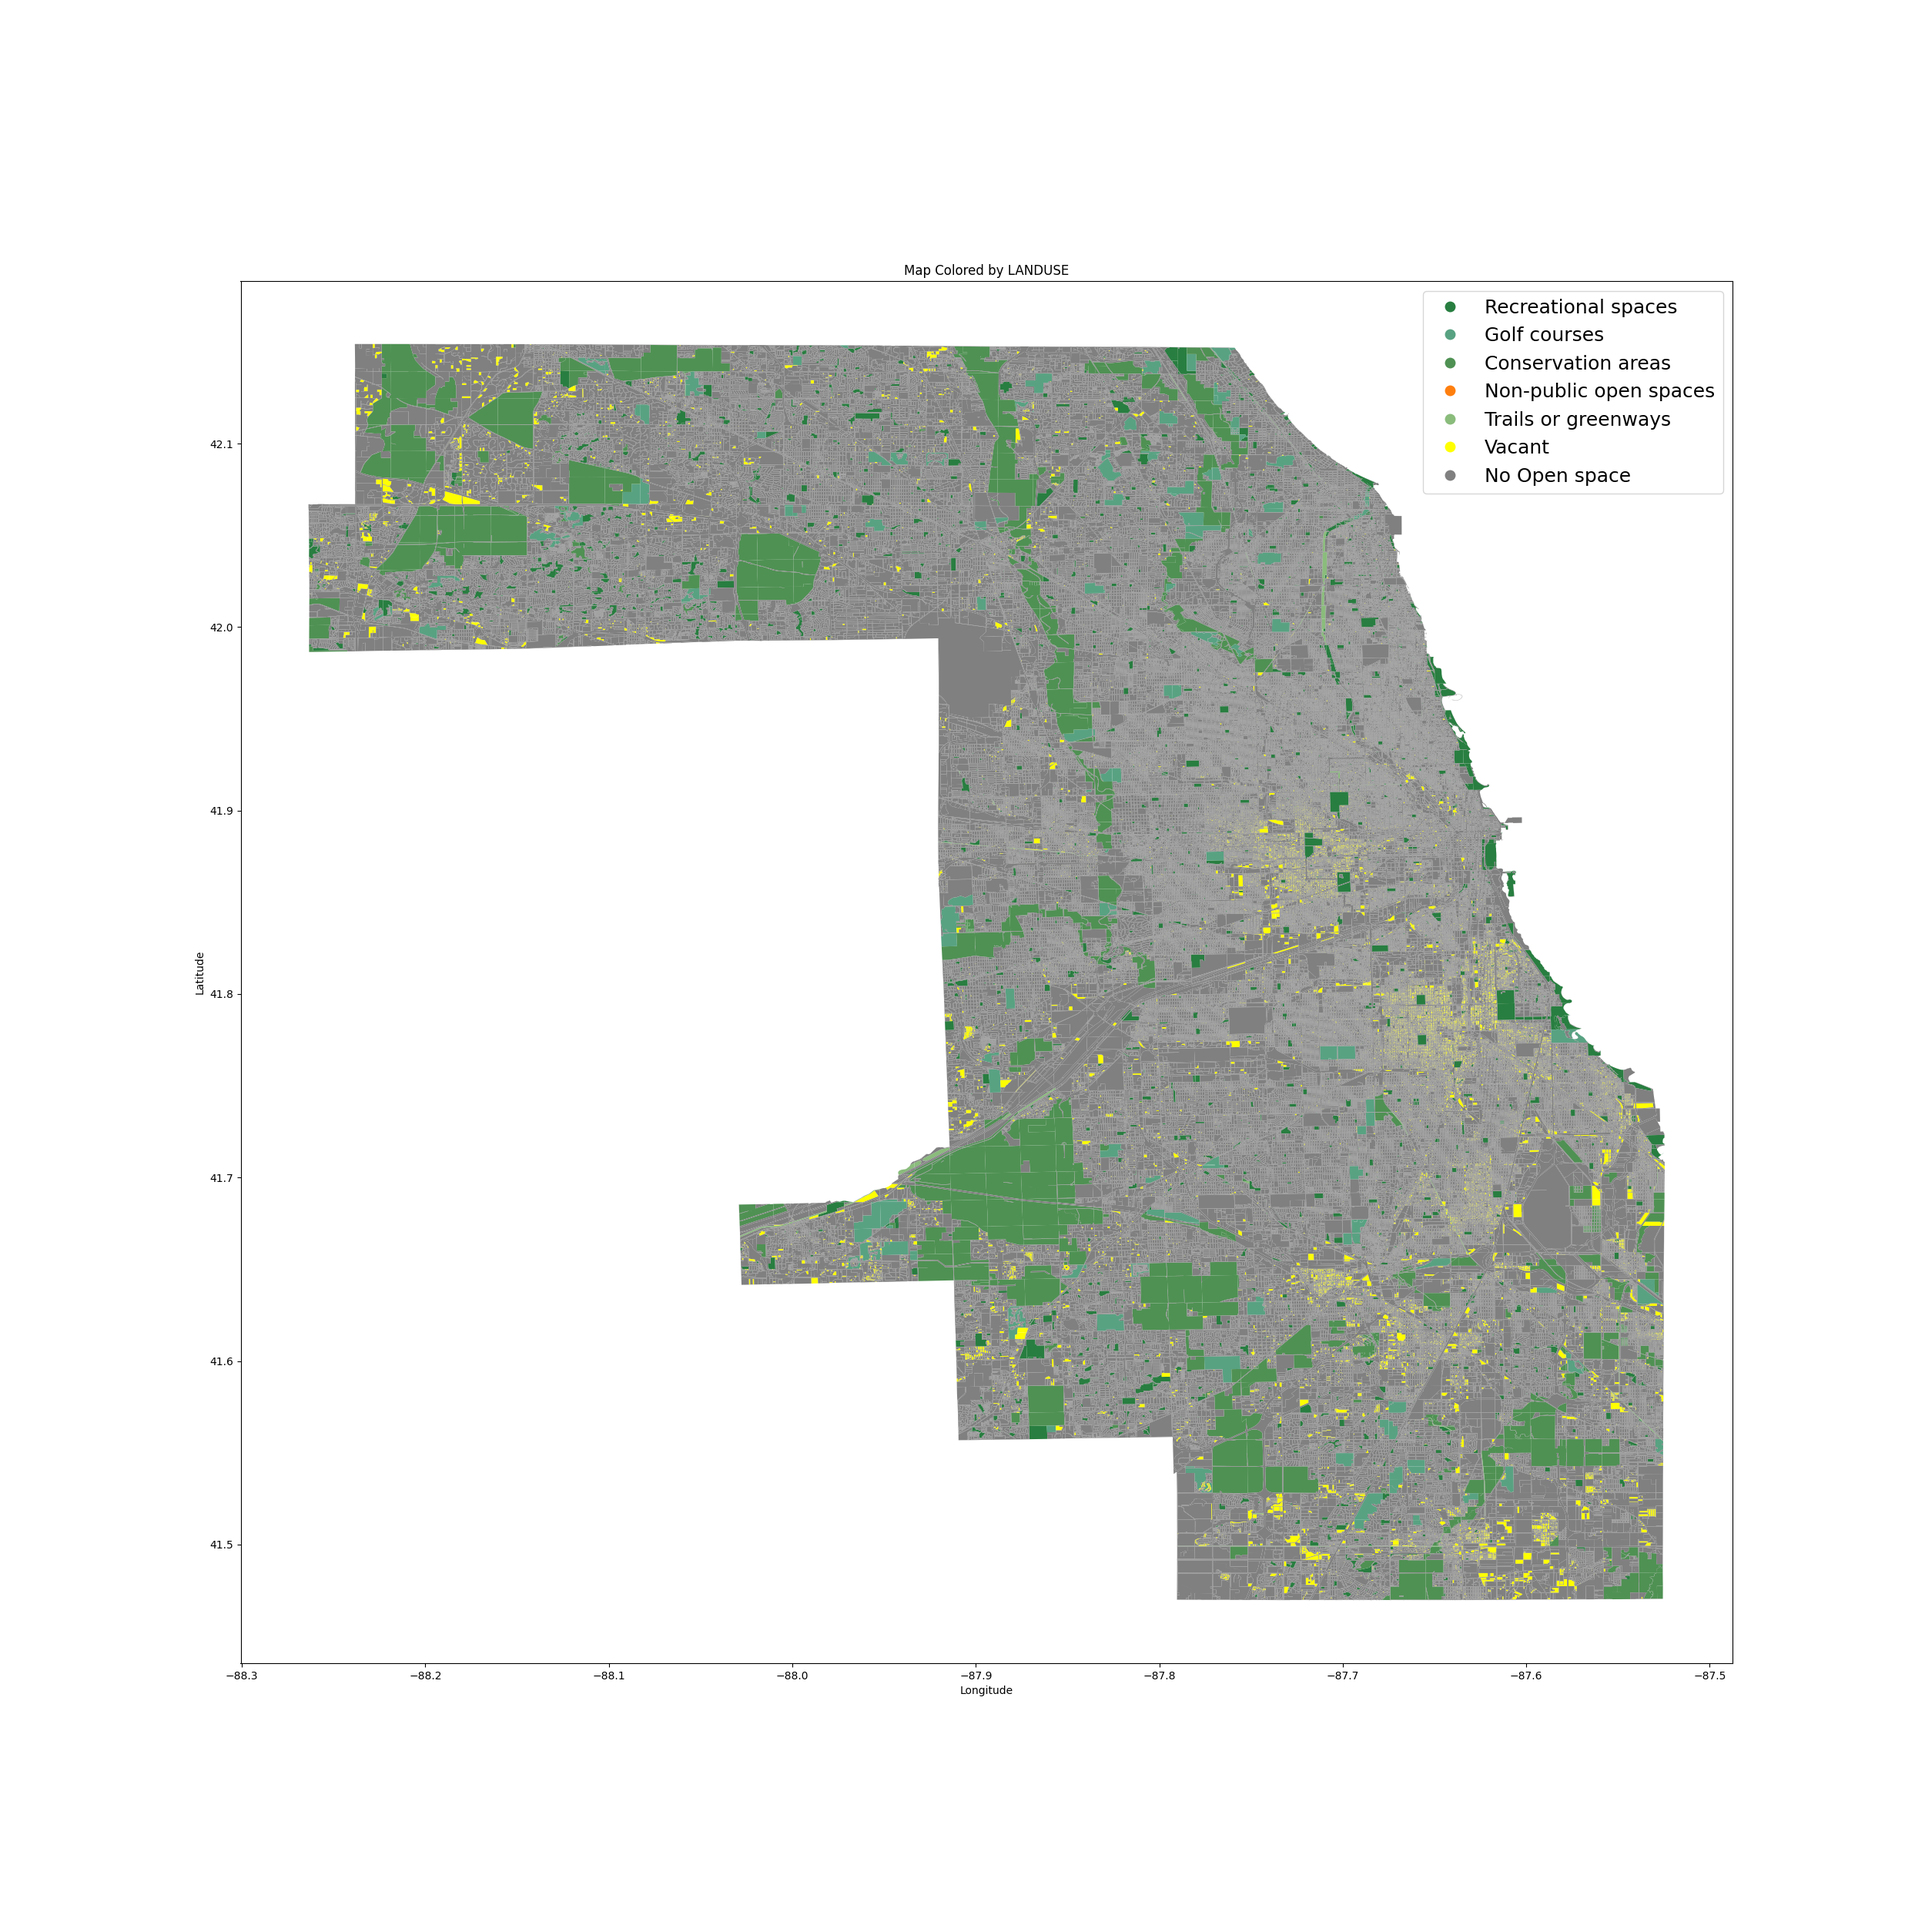
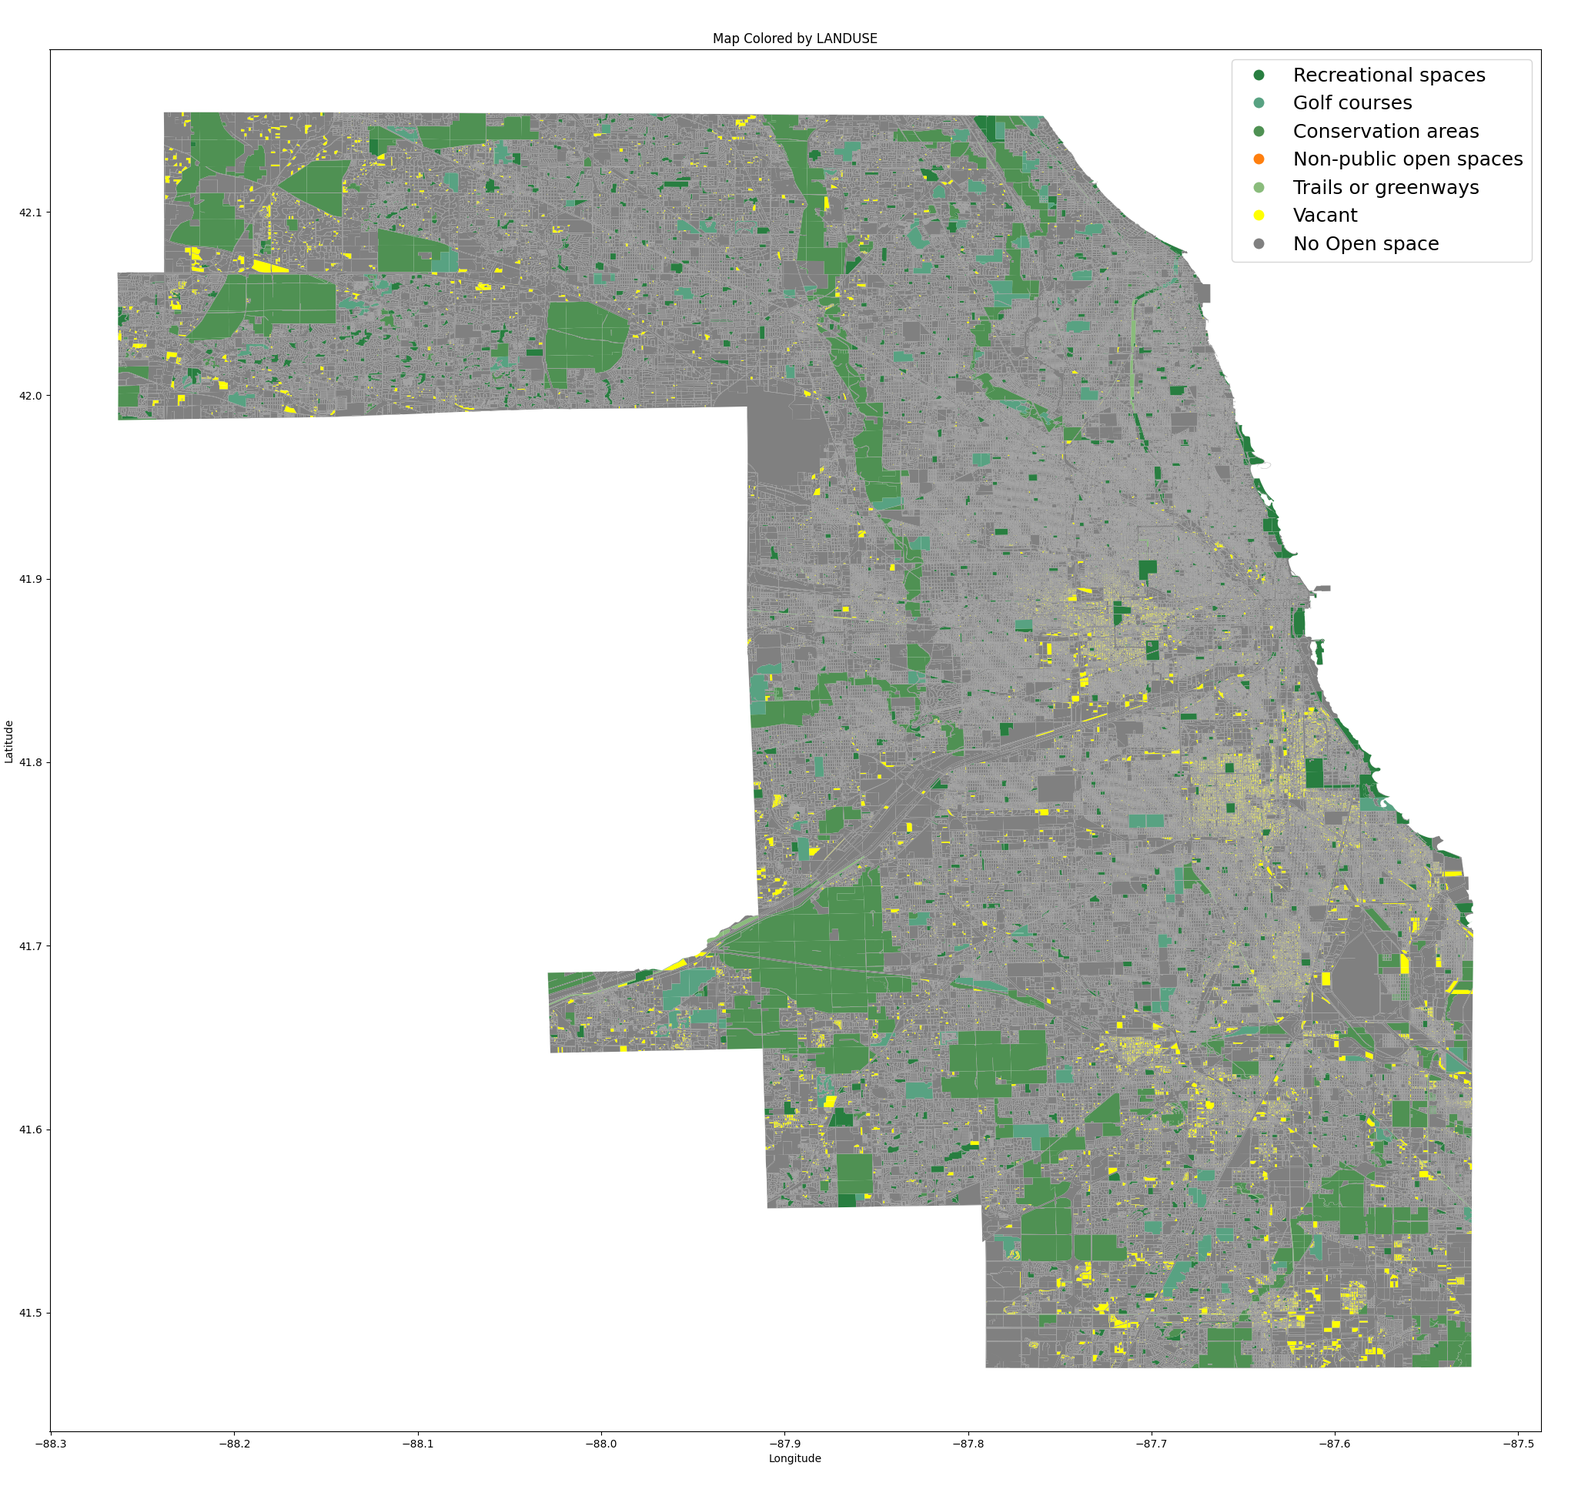
cropped landuse_map.png, changed UI layout in app.py

Changed region(s): [[0.0624, 0.0311, 0.9678, 0.9326]]

diff --git a/parksandrec/app.py b/parksandrec/app.py
@@ -3,137 +3,287 @@ import dash_bootstrap_components as dbc
 import plotly.graph_objects as go
 import plotly.express as px
 import json
-import geopandas as gpd
 from preprocessing.merge import collapse_tract
 from parksandrec.viz import charts
 
-app = Dash(__name__, external_stylesheets= [dbc.themes.COSMO])
+app = Dash(__name__, external_stylesheets=[dbc.themes.COSMO])
 
 
 data_tract = collapse_tract()
 
-tract_geo = gpd.GeoDataFrame(data_tract, geometry = 'geometry') # REMOVE
-tract_geo.set_index('TRACTCE', inplace = True)
-geojson_data = json.loads(tract_geo['geometry'].to_json())
+geojson_data = json.loads(data_tract["geometry"].to_json())
 
-tt_cols = tract_geo[['tract','tot_pop', 'avg_hh_size','median_hh_income', 'med_val_own_occ']]
-
-fig_choro = px.choropleth_map(
-        title = "Distribution of Open Space in Cook County by Census Tract",
-        subtitle = 'Percentage of Land Use assigned to Open Space - 2018',
-        data_frame = tract_geo,
-        geojson=geojson_data,
-        locations= tract_geo.index,
-        color =tract_geo["tot_open_space_prop"],
-        map_style = 'outdoors',
-        zoom = 9,
-        color_continuous_scale= 'Viridis',
-        center = {'lat': 41.83167, 'lon':-87.67778},
-        opacity = 0.7,
-        custom_data = ['tract','tot_pop', 'avg_hh_size','median_hh_income', 'med_val_own_occ'],
-        labels = {'tot_open_space_prop': "Proportion of open space"},
-    )
-
-fig_choro.update_traces(
-    hovertemplate =
-    "ID: %{customdata[0]}<br>" +
-    "Population: %{customdata[1]:,.0f}<br>" + 
-    "Avg HH size: %{customdata[2]}<br>" +
-    "Median HH Income: %{customdata[3]:$,.0f}<br>" +
-    "Median Property Value: %{customdata[4]:$,.0f}<br>"
-    "Open Space: %{z:.2%}<br>"+
-    "<extra></extra>"
-)
-
-fig_choro.update_layout(coloraxis=dict(colorbar=dict(orientation='h', y=-0.20)))
-
-default_graph = charts.plot_income_open_space('tot_open_space_prop', '<', 0.01)
-
-app.layout = [
-    html.Div([
-        dcc.Graph(
-            id='choropleth-map',
-            figure=fig_choro,
-            style={
-                'height': '90vh',
-                'width': '60%'
-            },
-            config={
-                'displayModeBar': False
-            }
-        ),
-
-        html.Div(
-            dash_table.DataTable(
-                id='race-table',
-                data=[]
-            )
-        )
-    ]),
-    html.Br(),
-    html.Div([
-        html.Label("Enter open space type: "),
-        dcc.Dropdown(
-            id = 'open-space-dropdown',
-            options = {
-                'tot_open_space_prop': 'All',
-                '3100_prop': 'Recreational Space',
-                '3200_prop': 'Golf Courses',
-                '3300_prop': 'Conservation Areas',
-                '3400_prop': 'Private Open Space',
-                '4110_prop': 'Vacant Residential Land',
-                '4120_prop': 'Vacant Commercial Land',
-                '4130_prop': 'Vacant Industrial Land'},
-            value = 'tot_open_space_prop'
-        ),
-        html.Br(),
-        html.Label("Enter inequality direction: "),
-        dcc.RadioItems(
-            id = 'direction-radio-button',
-            options = [
-                {'label': 'less than', 'value': '<'},
-                {'label': 'greater than', 'value': '>'}
-            ],
-            value = '<'
-        ),
-        html.Br(),
-        html.Label("Threshold (percent): "),
-        html.Br(),
-        dcc.Input(type='number', id='threshold-input', value=10),
-        dcc.Graph(figure=default_graph, id='income-graph')
-    ], style={'padding': '0px 20px 20px 20px'}),
-    
-    html.Div([
-        html.H2('<Insert title for Landuse graph>'),
-        html.Br(),
-        html.Img(src=app.get_asset_url('landuse_map.png'), style={'height':'30%', 'width': '60%'}),
-        html.Br()
-    ])
-   
+tt_cols = data_tract[
+    ["tract", "tot_pop", "avg_hh_size", "median_hh_income", "med_val_own_occ"]
 ]
 
+fig_choro = px.choropleth_map(
+    title="Distribution of Open Space in Cook County by Census Tract",
+    subtitle="Percentage of Land Use assigned to Open Space - 2018",
+    data_frame=data_tract,
+    geojson=geojson_data,
+    locations=data_tract.index,
+    color=data_tract["tot_open_space_prop"],
+    map_style="outdoors",
+    zoom=9,
+    color_continuous_scale="Viridis",
+    center={"lat": 41.83167, "lon": -87.67778},
+    opacity=0.7,
+    custom_data=[
+        "tract",
+        "tot_pop",
+        "avg_hh_size",
+        "median_hh_income",
+        "med_val_own_occ",
+    ],
+    labels={"tot_open_space_prop": "Proportion of open space"},
+)
+
+fig_choro.update_traces(
+    hovertemplate="ID: %{customdata[0]}<br>"
+    + "Population: %{customdata[1]:,.0f}<br>"
+    + "Avg HH size: %{customdata[2]}<br>"
+    + "Median HH Income: %{customdata[3]:$,.0f}<br>"
+    + "Median Property Value: %{customdata[4]:$,.0f}<br>"
+    "Open Space: %{z:.2%}<br>" + "<extra></extra>"
+)
+
+fig_choro.update_layout(coloraxis=dict(colorbar=dict(orientation="h", y=-0.20)))
+
+default_graph = charts.plot_income_open_space("tot_open_space_prop", "<", 0.01)
+
+title = dcc.Markdown(
+    """
+# **ParksAndRec: From Pawnee to Chicago**
+"""
+)
+
+intro = dcc.Markdown(
+    """
+### **How is open space distributed across Chicago and Cook County?**
+
+
+##### Open space can mean parks, trails and conservation areas, which are desirable for recreation, leisure, and weather regulation. However, it can also mean fallow and underdeveloped lands, which could indicate a lack of investment in built up area and infrastructure. The distribution of such spaces can be determined by socioeconomic factors like neighborhood household incomes, race, and age.
+
+##### `ParksAndRec` aggregates the open space in Chicago at the Census tract level and allows you to explore spatial and statistical data to draw inferences about these correlations.
+    """
+)
+graph1_body = dcc.Markdown(
+    """
+Open spaces are categorized based on their primary use and characteristics. Each category is distinct and serves a specific purpose:
+
+- *Recreational spaces*: Recreational open spaces with more than 50% combined impervious surface and manicured turf. This category includes botanical gardens and arboreta.
+
+- *Golf courses*: Public golf courses, country clubs, driving ranges, and associated buildings or parking areas.
+
+- *Conservation areas*: Open spaces in a natural state, with less than 50% combined impervious surface or manicured turf. This includes public lands, state-dedicated nature preserves, and privately-run conservation facilities.
+
+- *Non-public spaces*: Privately owned or restricted-access open spaces, such as hunting clubs, scout camps, and private campgrounds. This is not accessible to the general public.
+
+- *Trails or greenways*: Right-of-way areas maintained for recreational activities, such as walking, cycling, or hiking. Connects communities and promotes outdoor activities in a linear, accessible format.
+
+- *Vacant*: Undeveloped land with no agricultural activity or protection as open space. Includes razed properties in urban settings but excludes vacant developed properties with intact buildings or infrastructure.
+
+"""
+)
+
+graph2_body = dcc.Markdown(
+    """
+The **Chicago Metropolitan Agency for Planning (CMAP)** categorizes open spaces into five types: recreational spaces, golf courses, conservation areas, non-public spaces, and trails or greenways. But how are these open spaces distributed across the census tracts of Cook County? And more importantly, which populations have access to them?
+
+Explore the map to see the concentration of open spaces in different areas. Simply hover over a census tract to reveal details such as the proportion of land dedicated to open space and key demographic indicators of the local population.
+
+"""
+)
+
+graph3_body = dcc.Markdown(
+    """
+What is the relationship between the median household income in a Census tract and the total area allocated to open space within it? Are golf courses found in richer tracts? What about abandoned or vacant lots? Which income groups have access to trails and conservation areas?
+
+This tool allows researchers and policymakers to understand how the distribution of income across Cook County changes when controlling for different kinds and amounts of open space. Overall, the trends are complex and related to other demographics like race, historical land use, and city investments, as seen in the map above, but this tool provides a starting point to investigate this complex relationship.
+
+"""
+)
+
+graph1_card = dbc.Card(
+    dbc.CardBody(
+        [
+            html.H3("Where is the open space in Cook County?", className="card-title"),
+            html.H5(graph1_body, className="card-text"),
+        ]
+    )
+)
+
+graph3_card = dbc.Card(
+    dbc.CardBody(
+        [
+            html.H3("Toggle open spaces to understand income!", className="card-title"),
+            html.H5(graph3_body, className="card-text"),
+        ]
+    )
+)
+
+tab1_content = html.Div(
+    [
+        dbc.Row(
+            [
+                dbc.Col(
+                    [
+                        graph1_card,
+                    ],
+                    width=3,
+                ),
+                dbc.Col(
+                    html.Img(
+                        src=app.get_asset_url("landuse_map.png"),
+                        style={
+                            "width": "100%",
+                            "height": "auto",
+                            "maxWidth": "700px",
+                            "display": "block",
+                            "margin": "0 auto",
+                        },
+                    ),
+                    width=9,
+                ),
+            ]
+        )
+    ],
+    style={"margin": "10px", "padding": "20px"},
+)
+
+tab2_content = html.Div(
+    [
+        html.Div(
+            graph2_body,
+            style={"margin": "10px", "backgroundColor": "lightgray", "padding": "20px"},
+        ),
+        html.Div(
+            [
+                dcc.Graph(
+                    id="choropleth-map",
+                    figure=fig_choro,
+                    style={"height": "90vh", "width": "60%"},
+                    config={"displayModeBar": False},
+                ),
+                html.Div(dash_table.DataTable(id="race-table", data=[])),
+            ]
+        ),
+    ]
+)
+
+tab3_content = html.Div(
+    [
+        dbc.Row(
+            [
+                dbc.Col([graph3_card], width=3),
+                dbc.Col(
+                    [
+                        html.Label("Enter open space type: "),
+                        dcc.Dropdown(
+                            id="open-space-dropdown",
+                            options={
+                                "tot_open_space_prop": "All",
+                                "3100_prop": "Recreational Space",
+                                "3200_prop": "Golf Courses",
+                                "3300_prop": "Conservation Areas",
+                                "3400_prop": "Private Open Space",
+                                "4110_prop": "Vacant Residential Land",
+                                "4120_prop": "Vacant Commercial Land",
+                                "4130_prop": "Vacant Industrial Land",
+                            },
+                            value="tot_open_space_prop",
+                        ),
+                        html.Br(),
+                        html.Label("Enter inequality direction: "),
+                        dcc.RadioItems(
+                            id="direction-radio-button",
+                            options=[
+                                {"label": "less than", "value": "<"},
+                                {"label": "greater than", "value": ">"},
+                            ],
+                            value="<",
+                        ),
+                        html.Br(),
+                        html.Label("Threshold (percent): "),
+                        html.Br(),
+                        dcc.Input(type="number", id="threshold-input", value=10),
+                        dcc.Graph(figure=default_graph, id="income-graph"),
+                    ],
+                    width=9,
+                    style={"padding": "0px 20px 20px 20px"},
+                ),
+            ]
+        )
+    ]
+)
+
+
+app.layout = [
+    html.Div(
+        title,
+        style={
+            "font-weight": "bold",
+            "margin": "10px",
+            "backgroundColor": "darkgreen",
+            "color": "white",
+            "padding": "20px",
+        },
+    ),
+    html.Div(
+        intro,
+        style={"margin": "10px", "backgroundColor": "lightgray", "padding": "20px"},
+    ),
+    dbc.Tabs(
+        [
+            dbc.Tab(
+                tab1_content,
+                label="Where?",
+                tab_id="parcel",
+                style={"margin": "10px", "padding": "20px"},
+            ),
+            dbc.Tab(
+                tab2_content,
+                label="Who?",
+                tab_id="tract",
+                style={"margin": "10px", "padding": "20px"},
+            ),
+            dbc.Tab(
+                tab3_content,
+                label="Explore",
+                tab_id="stats",
+                style={"margin": "10px", "padding": "20px"},
+            ),
+            dbc.Tab(label = "About")
+        ]
+    ),
+]
+
+
 @callback(
-    Output(component_id='race-table', component_property='data'),
-    Input(component_id='choropleth-map', component_property='clickData')
+    Output(component_id="race-table", component_property="data"),
+    Input(component_id="choropleth-map", component_property="clickData"),
 )
 def render_race_table(clickData):
     if not clickData:
         return []
-    
-    tract_id = clickData['points'][0]['location']
-    tract_info = data_tract[data_tract['TRACTCE'] == tract_id]
+
+    tract_id = clickData["points"][0]["location"]
+    tract_info = data_tract[data_tract["TRACTCE"] == tract_id]
     print(tract_info)
 
-    return tract_info[['white', 'black']].to_dict('records')
+    return tract_info[["white", "black"]].to_dict("records")
+
 
 @callback(
-    Output(component_id='income-graph', component_property='figure'),
-    Input(component_id='open-space-dropdown', component_property='value'),
-    Input(component_id='direction-radio-button', component_property='value'),
-    Input(component_id='threshold-input', component_property='value'),
+    Output(component_id="income-graph", component_property="figure"),
+    Input(component_id="open-space-dropdown", component_property="value"),
+    Input(component_id="direction-radio-button", component_property="value"),
+    Input(component_id="threshold-input", component_property="value"),
 )
 def update_income_graph(open_space_col, inequality_dir, threshold):
     return charts.plot_income_open_space(open_space_col, inequality_dir, threshold)
 
-if __name__ == '__main__':
-    app.run_server(debug=True, port = 8080)
+
+if __name__ == "__main__":
+    app.run_server(debug=True, port=8080)
